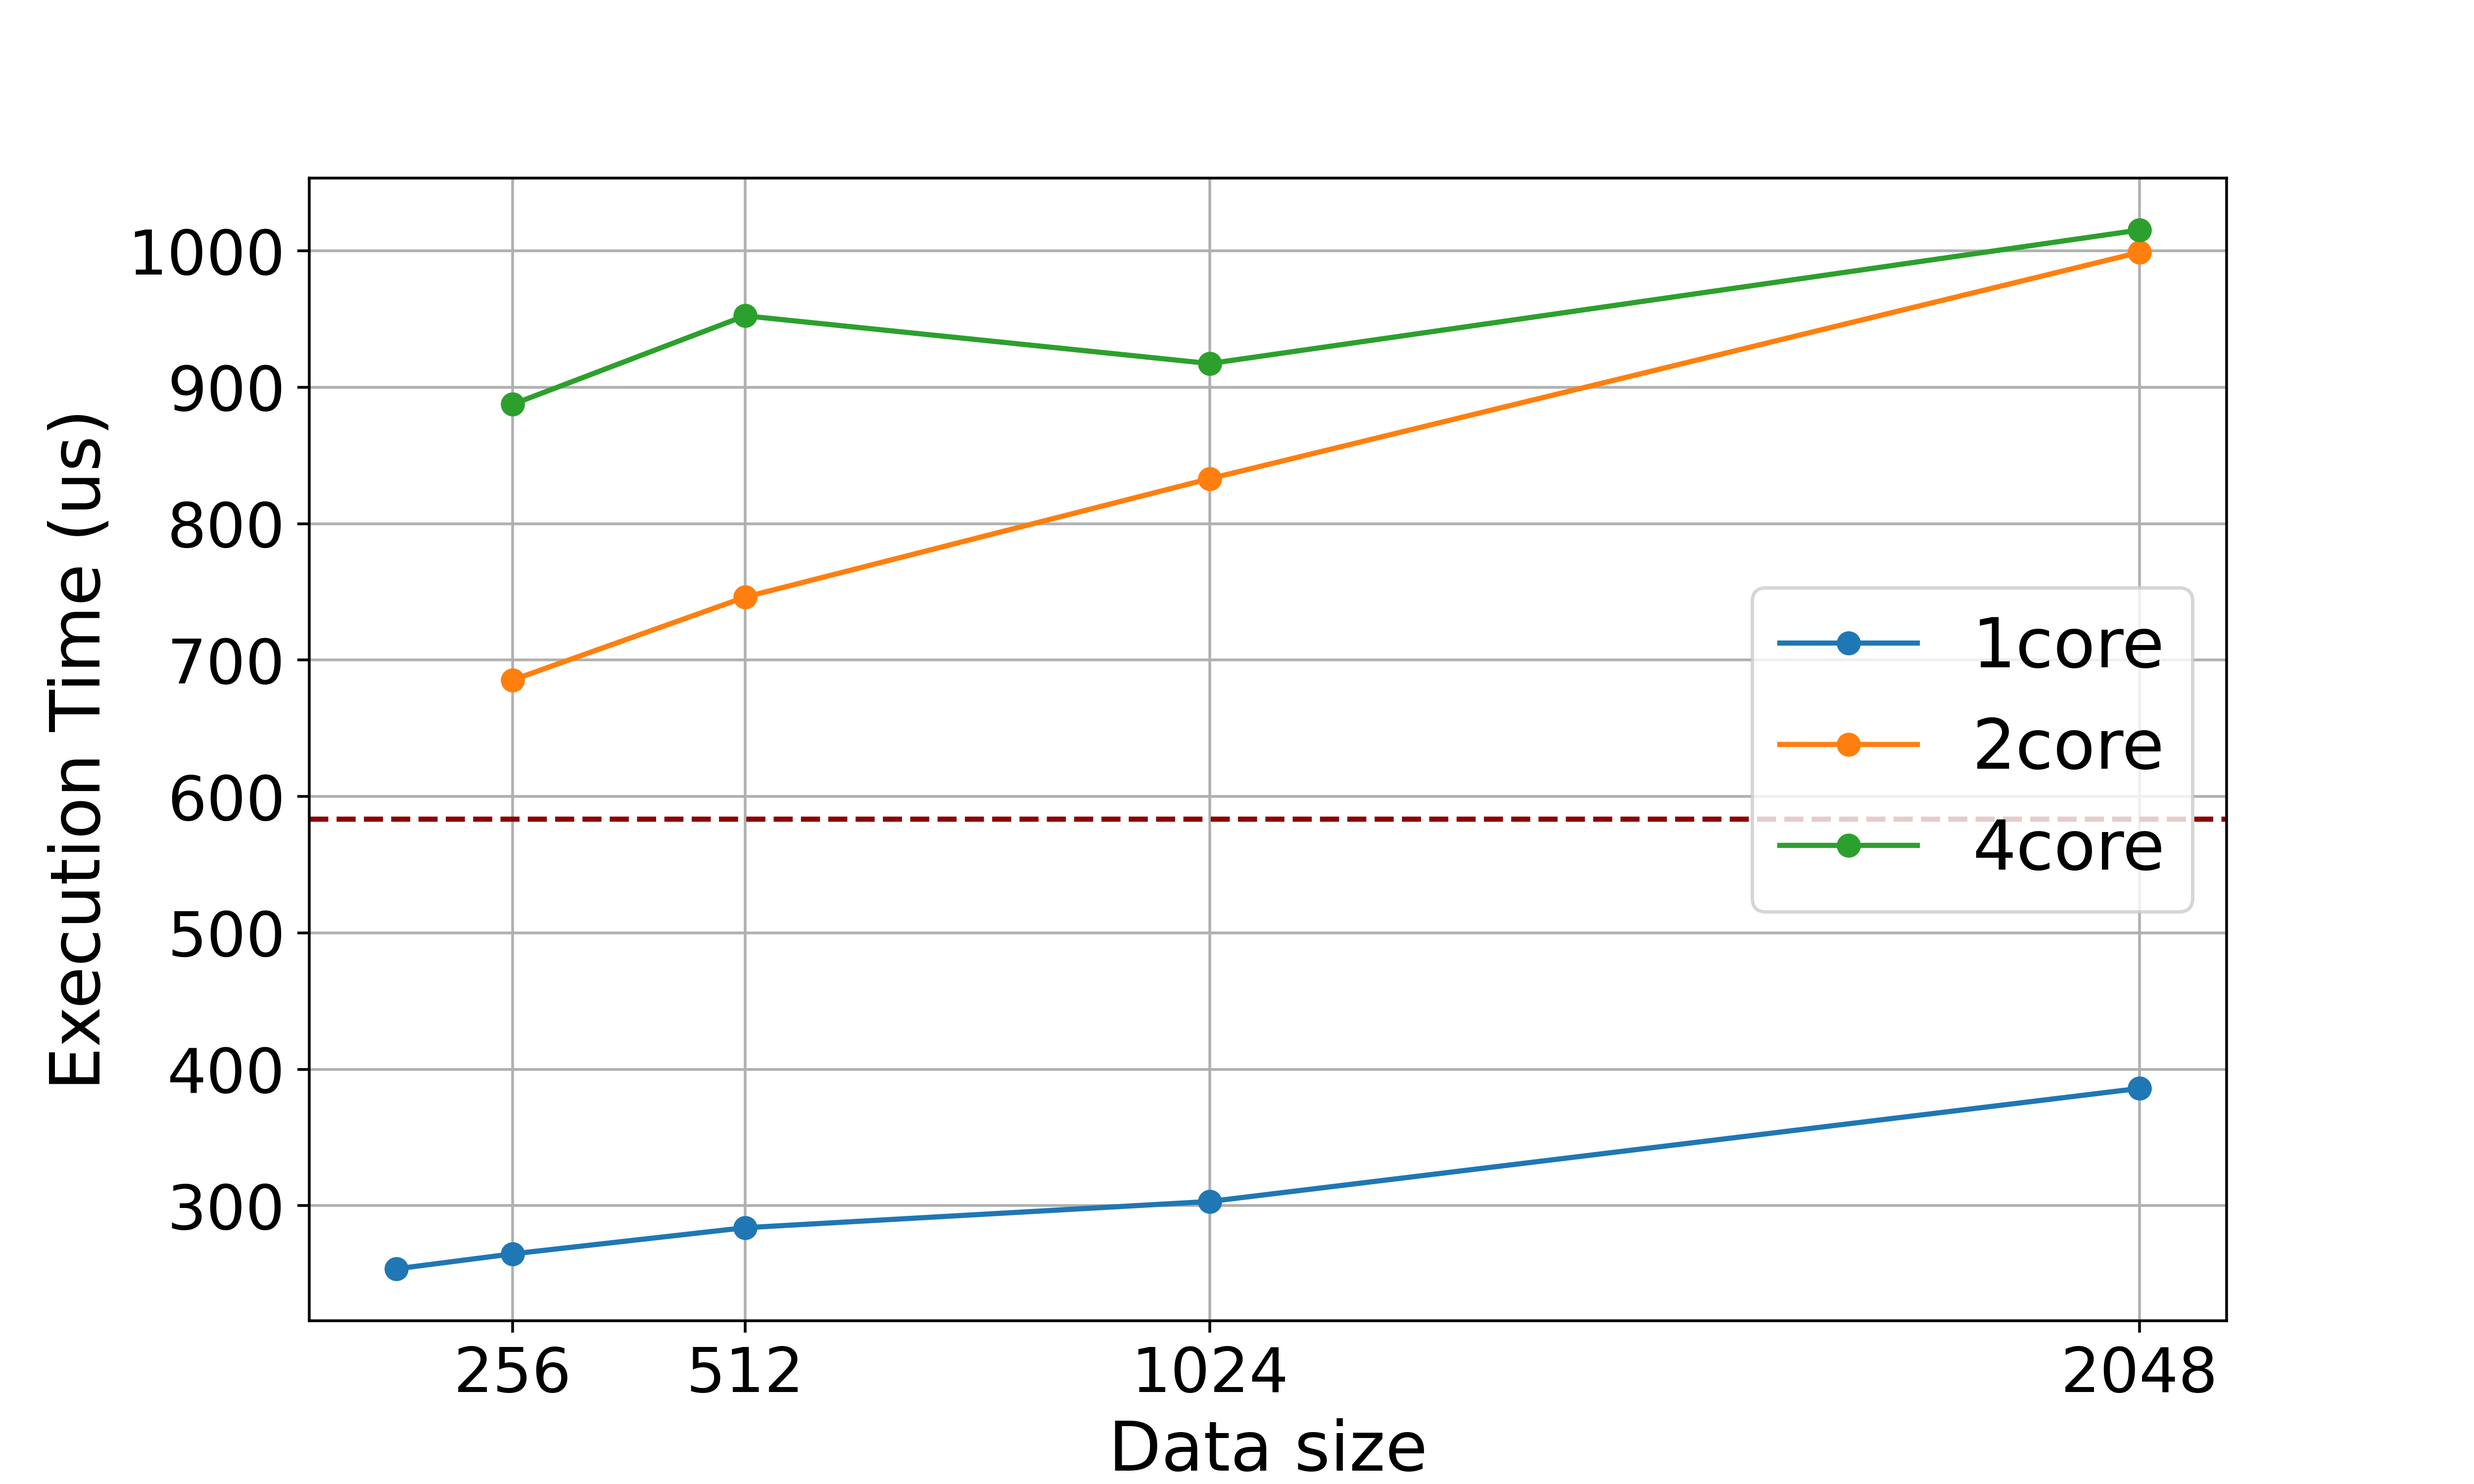
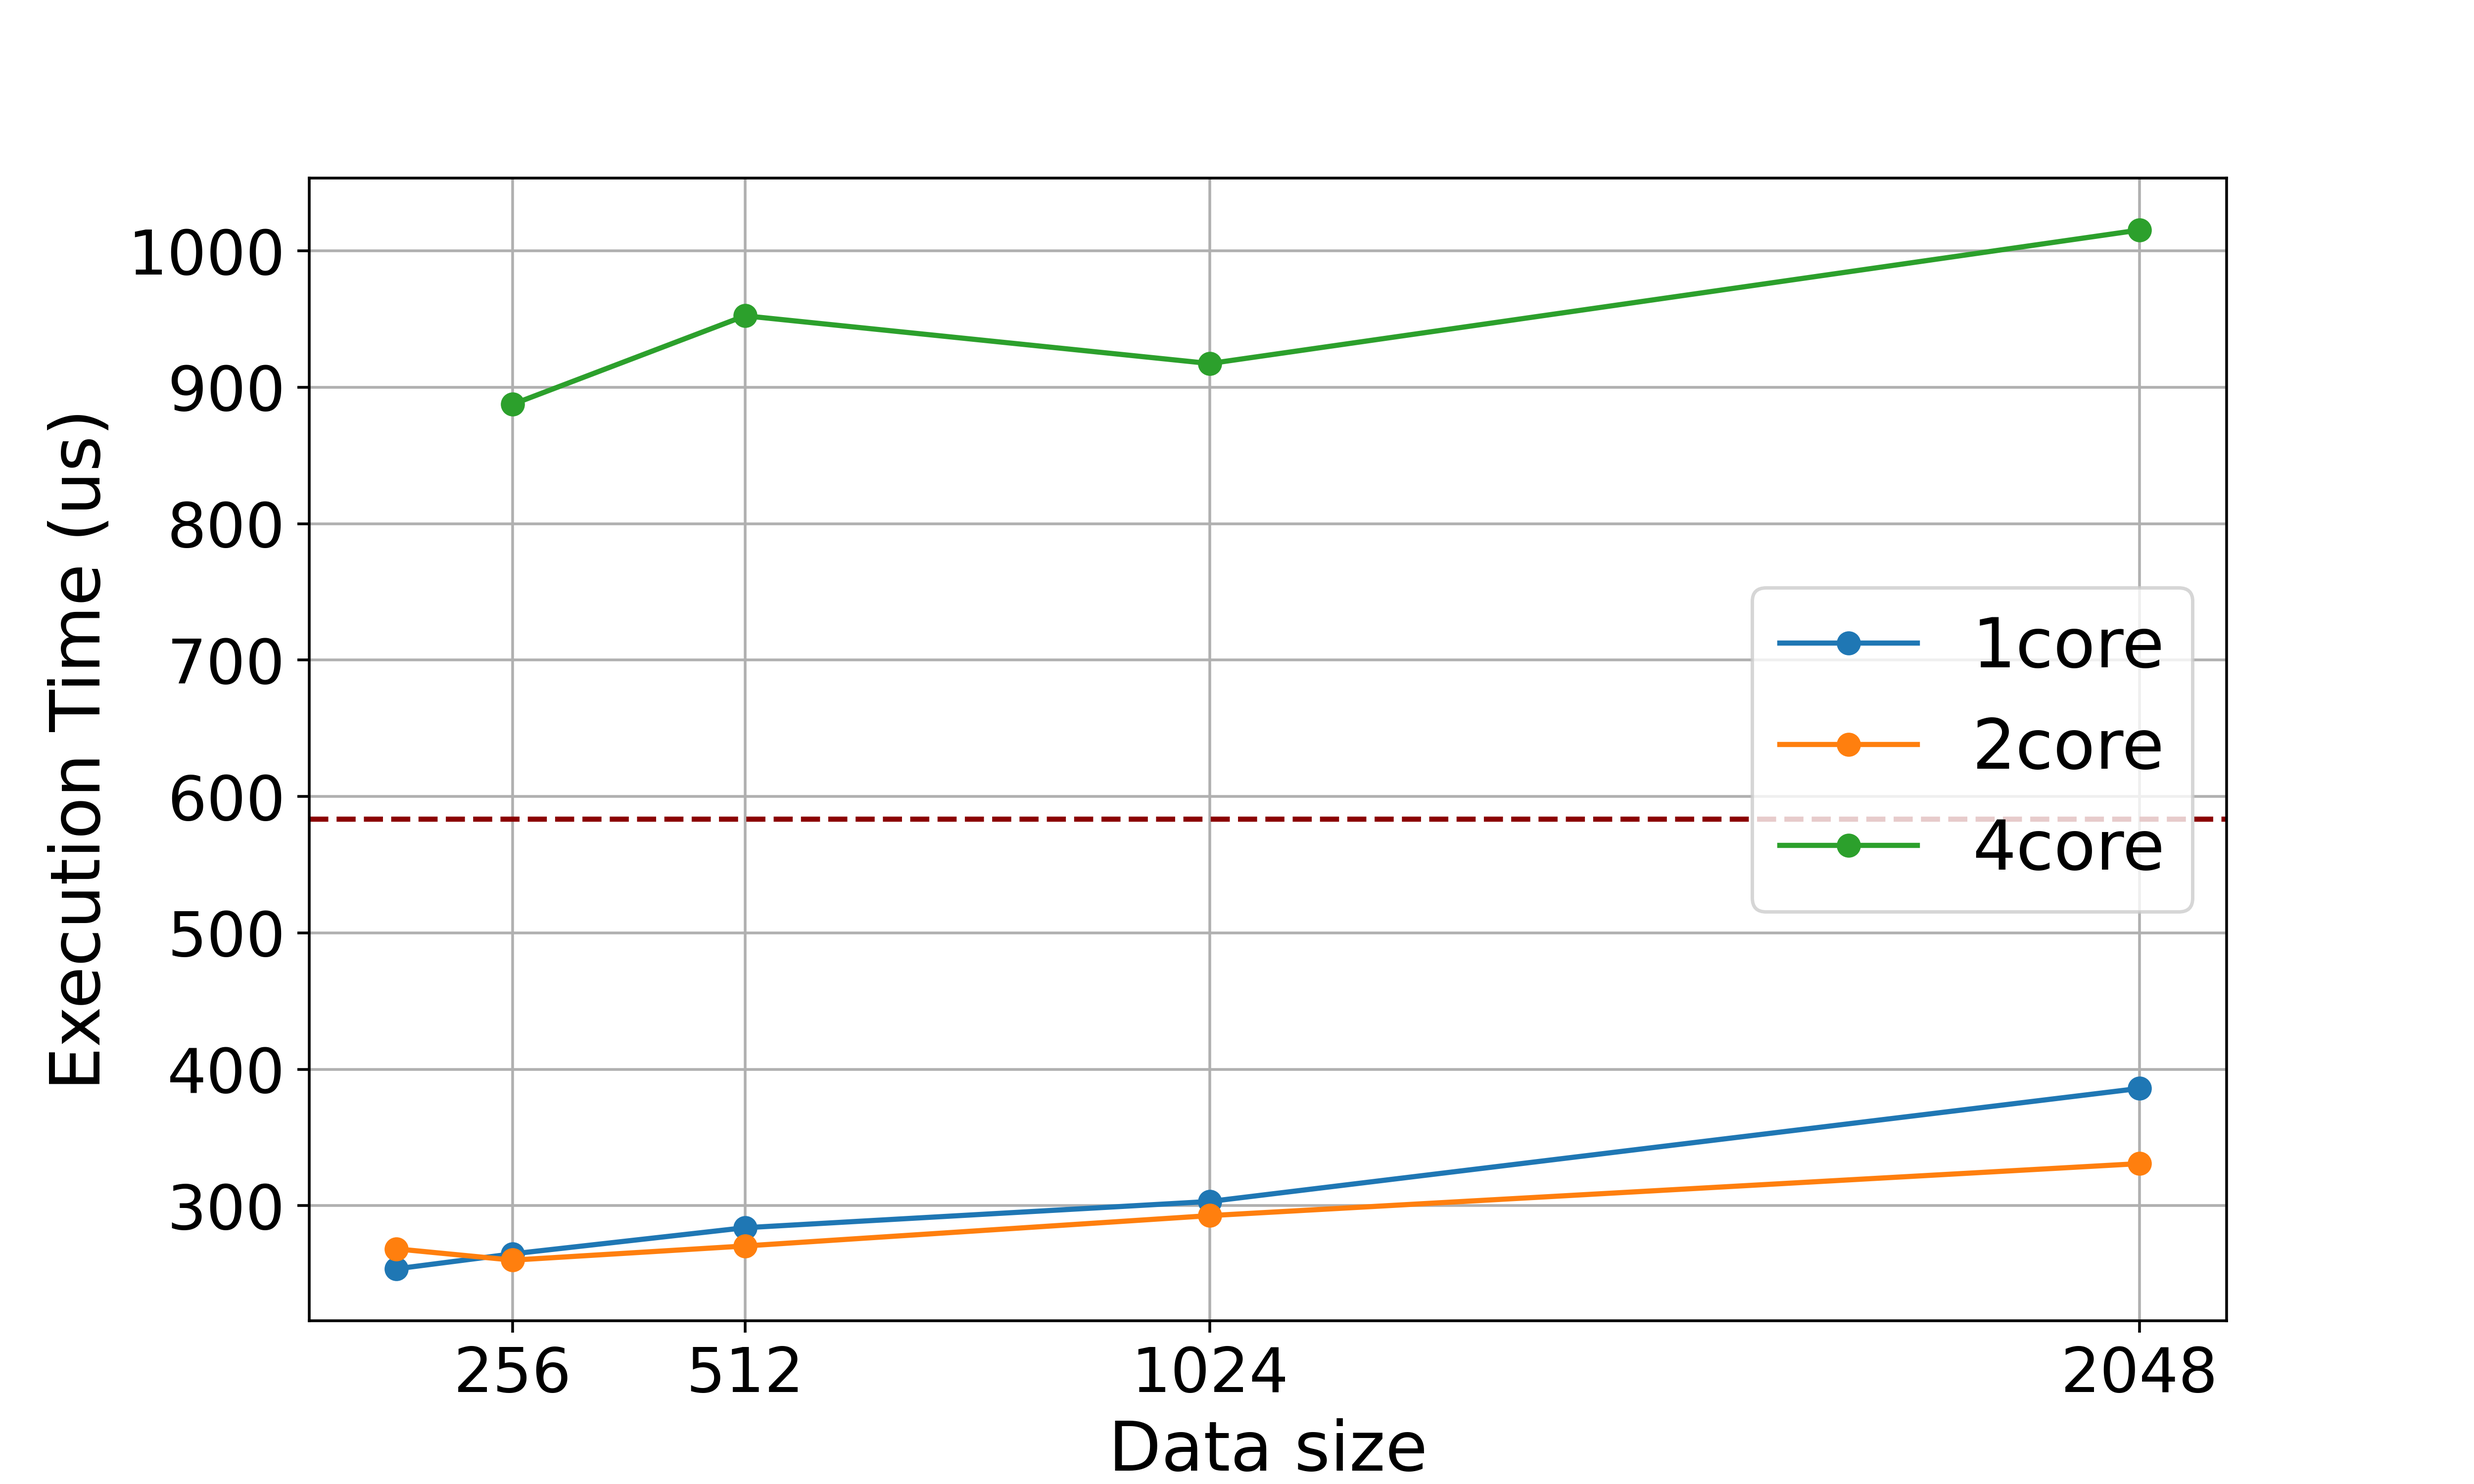
profile 2core

diff --git a/test.cpp b/test.cpp
@@ -44,7 +44,7 @@ void make_roots(int32_t n, std::vector<int32_t> &roots, int64_t p, int64_t g){
 int main(int argc, const char *argv[]) {
   constexpr int64_t p = 3329;
   constexpr int64_t g = 3;
-  constexpr int64_t n = 7;
+  constexpr int64_t n = 11;
   constexpr int64_t trace_size = 1 << 15;
   int IN_VOLUME = 1 << n;
   int OUT_VOLUME = IN_VOLUME + trace_size;

diff --git a/utils/plot_exectime.py b/utils/plot_exectime.py
@@ -54,4 +54,4 @@ plt.ylabel('Execution Time (us)', fontsize=20)
 plt.tick_params(labelsize=18)
 plt.legend(fontsize=20)
 plt.grid(True)
-plt.savefig("exectime.png", dpi=500)
+plt.savefig("/mnt/c/Technical/ntt-aie/profile/exectime.png", dpi=500)

diff --git a/ntt-2core/aie2.py b/ntt-2core/aie2.py
@@ -19,7 +19,7 @@ import aie.utils.trace as trace_utils
 
 
 def ntt():
-    logN = 7
+    logN = 11
     N = 1 << logN
     N_in_bytes = N * 4
     p = 3329
